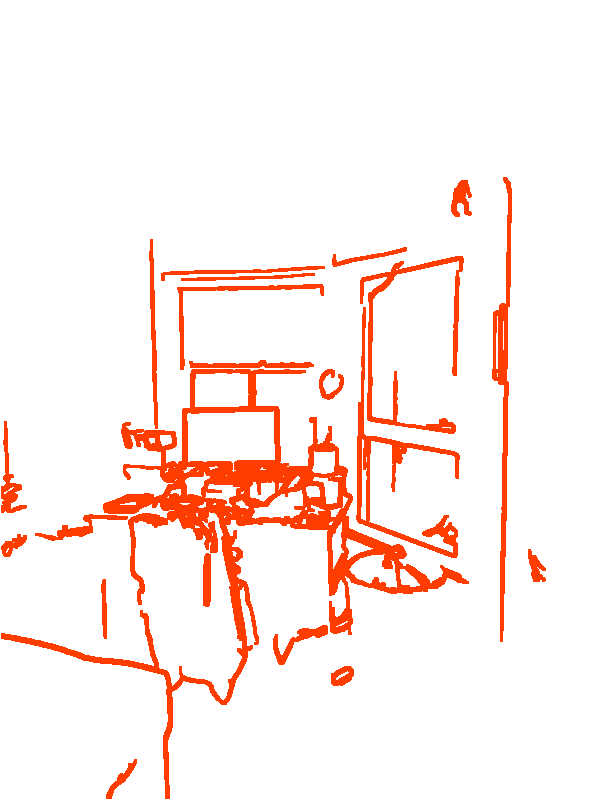
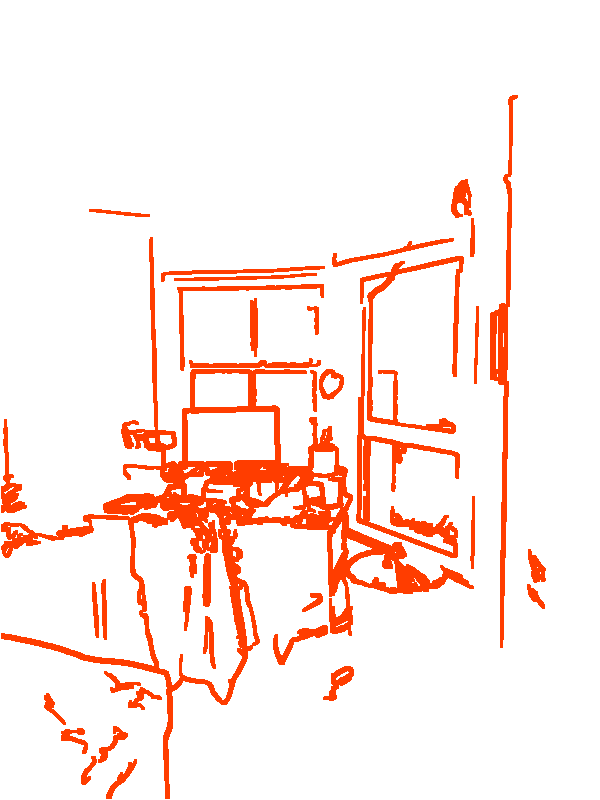
The stencil tool chooses its own speck limit and names a poor subject
What was hand work per photograph on the first hunt is now the tool's:
with --speck left out it raises the limit from 60 until most of what
survives is strokes at least three hundred pixels long rather than
specks, and prints what it chose. It does not climb the keep fraction to
make up for a sparse result, because more of a textured picture is more
texture, merged into blobs big enough to pass for strokes. Instead it
says when a photograph is mostly texture, too sparse, or too dark, so
those are taken again rather than tuned.

pipeline/sheet.py makes the contact sheet of a hunt's previews in one
command. Snowman House's seven stencils are re-cut by the unattended
tool, so what is deployed is what any future hunt gets. Tests for the
choice: clean outlines keep 60, a wicker-like texture raises it and is
reported, an explicit --speck is used as given, a dark photograph is
reported.

Claude-Session: https://claude.ai/code/session_0129ZGGXrko81CZoRzPKhrL1

diff --git a/pipeline/stencil.py b/pipeline/stencil.py
@@ -1,6 +1,7 @@
 #!/usr/bin/env python3
 """Cut a stencil from a photograph.
 
+    python3 pipeline/stencil.py photos/<slug>/*.jpg --out app/img/<slug>
     python3 pipeline/stencil.py photos/<slug>/*.jpg \\
         --keep 0.066 --speck 60 --long 800 --out app/img/<slug>
 
@@ -21,8 +22,13 @@ gravel, foliage) survives the threshold as scattered specks while an outline
 survives as one long piece. The lines are then thickened by one pixel to the
 two or three the scorer's masks expect. Strong outlines make the stencil,
 fine detail does not, and the preview written beside each PNG is where you
-find out: a stencil is good when a person could tell what it is. Too much
-texture: raise --speck first, then lower --keep, then ask for another photo.
+find out: a stencil is good when a person could tell what it is.
+
+Left to itself the tool chooses --speck per photograph: the limit rises
+until most of what survives is strokes rather than specks. It says what it
+chose, and it says when a photograph is mostly texture, too sparse, or too
+dark to be a good subject: those are the ones to take again. Give --speck
+to fix it by hand; --keep is 0.066 unless given.
 
 For each photograph this writes <id>-stencil.png and <id>-stencil-preview.jpg
 into --out and prints one JSON stencil entry to stdout, for pasting into the
@@ -125,12 +131,8 @@ def threshold(mag, w, h, keep):
     list of 0/1 the size of the frame. Strictly above, so a frame with no
     gradient at all keeps nothing rather than everything.
 
-    The quantile is taken over, and only ever set within, the pixels whose
-    Sobel saw a blurred neighbour on every side: two pixels in from the
-    edge. The blur is not computed on the one-pixel border, so the Sobel
-    one pixel in sees a black frame and reports a strong edge all the way
-    round the picture, blank or not. The player's frame has that ring too,
-    and a stencil that carried it would score a match on any view."""
+    The quantile is taken over, and only ever set within, the pixels two
+    in from the edge, where the Sobel had a full neighbourhood to read."""
     inner = [mag[y * w + x] for y in range(2, h - 2) for x in range(2, w - 2)]
     mask = [0] * (w * h)
     if not inner:
@@ -146,18 +148,19 @@ def threshold(mag, w, h, keep):
     return mask
 
 
-def drop_specks(mask, w, h, speck):
-    """Clear every 8-connected component of set pixels with fewer than
-    `speck` pixels, in place. A plain stack, not recursion: an outline is
-    one component thousands of pixels long and would blow the stack."""
+def components(mask, w, h):
+    """The 8-connected components of the set pixels, each a list of pixel
+    indices, largest first. A plain stack, not recursion: an outline is one
+    component thousands of pixels long and would blow the stack. The mask
+    is left as it was."""
     n = w * h
-    # 1 is set and not yet visited, 2 is set and visited, so the visit needs
-    # no second list the size of the frame.
+    seen = bytearray(n)
+    out = []
     for start in range(n):
-        if mask[start] != 1:
+        if not mask[start] or seen[start]:
             continue
         comp = [start]
-        mask[start] = 2
+        seen[start] = 1
         stack = [start]
         while stack:
             i = stack.pop()
@@ -170,16 +173,70 @@ def drop_specks(mask, w, h, speck):
                     if xx < 0 or xx >= w:
                         continue
                     j = yy * w + xx
-                    if mask[j] == 1:
-                        mask[j] = 2
+                    if mask[j] and not seen[j]:
+                        seen[j] = 1
                         stack.append(j)
                         comp.append(j)
-        if len(comp) < speck:
-            for i in comp:
-                mask[i] = 0
-    for i in range(n):
-        if mask[i]:
+        out.append(comp)
+    out.sort(key=len, reverse=True)
+    return out
+
+
+def from_components(comps, w, h):
+    mask = [0] * (w * h)
+    for comp in comps:
+        for i in comp:
             mask[i] = 1
+    return mask
+
+
+def drop_specks(mask, w, h, speck):
+    """Clear every 8-connected component of set pixels with fewer than
+    `speck` pixels, in place."""
+    kept = [c for c in components(mask, w, h) if len(c) >= speck]
+    mask[:] = from_components(kept, w, h)
+
+
+# Choosing the speck limit by looking, the way the handoff has the owner do
+# it, but done by the tool: raise the limit until most of what survives is
+# strokes rather than specks. The numbers came from the first hunt: a door
+# or a piano is a few components thousands of pixels long, a wicker basket
+# or a cluttered cellar is hundreds under a hundred and fifty. The keep
+# fraction is not climbed to make up for a sparse result: more of a textured
+# picture is more texture, merged into blobs big enough to pass for strokes,
+# and a plain subject already has its strong edges at 0.066. A sparse or a
+# textured result is reported instead, because the answer is another
+# photograph.
+SPECKS = [60, 80, 100, 130, 160, 200, 250, 300]
+STROKE_PX = 300          # a component at least this long is a stroke, not a speck
+STROKE_SHARE = 0.6       # the share of kept pixels that should be in strokes
+SPARSE = 0.035           # under this set fraction the scorer has little to hold
+DIM = 60                 # mean brightness, of 255, under which a room is dark
+
+
+def choose(mag, w, h, keep, speck):
+    """The mask, the speck used, and any notes about the photograph. A speck
+    given as None is chosen here; keep is as given."""
+    interior = max(1, (w - 4) * (h - 4))
+    specks = [speck] if speck is not None else SPECKS
+    comps = components(threshold(mag, w, h, keep), w, h)
+    notes = []
+    result = None
+    for sp in specks:
+        kept = [c for c in comps if len(c) >= sp]
+        total = sum(len(c) for c in kept)
+        share = (sum(len(c) for c in kept if len(c) >= STROKE_PX) / total) if total else 0.0
+        result = (sp, kept, total / interior, share)
+        if share >= STROKE_SHARE:
+            break
+    sp, kept, frac, share = result
+    if share < STROKE_SHARE and speck is None:
+        notes.append(f"mostly texture even at speck {sp} ({share:.0%} of its lines are strokes); "
+                     "consider another photograph")
+    elif frac < SPARSE:
+        notes.append(f"sparse: {frac:.1%} of the frame before thickening; "
+                     "a subject with bigger, plainer edges would give the camera more to hold")
+    return from_components(kept, w, h), sp, notes
 
 
 def src_for(out, png):
@@ -211,11 +268,15 @@ def make(photo, out, keep, speck, long):
     im = fit_long(im, long)
     w, h = im.size
 
-    mag = edge_map(pixels(im), w, h)
-    mask = threshold(mag, w, h, keep)
-    drop_specks(mask, w, h, speck)
+    px = pixels(im)
+    mag = edge_map(px, w, h)
+    mask, speck, notes = choose(mag, w, h, keep, speck)
     if not any(mask):
         print(f"{photo}: no edges found, the stencil is empty", file=sys.stderr)
+    # A dark room is noise to the camera whatever the stencil says.
+    mean = sum(0.299 * r + 0.587 * g + 0.114 * b for r, g, b in px) / len(px)
+    if mean < DIM:
+        notes.append(f"dim (mean brightness {mean:.0f} of 255); the camera will see noise in a dark room")
 
     # Thicken by one pixel. MaxFilter on a 0/255 image gives back only 0
     # and 255, so the alpha it becomes is a clean mask with no half-values
@@ -238,7 +299,9 @@ def make(photo, out, keep, speck, long):
     # The set fraction after thickening, at a glance: a stencil that is
     # mostly texture is a big number before it is a bad picture.
     filled = lines.histogram()[255] / (w * h)
-    print(f"wrote {png} {w}x{h}, {filled:.1%} set", file=sys.stderr)
+    print(f"wrote {png} {w}x{h}, {filled:.1%} set (keep {keep:g}, speck {speck})", file=sys.stderr)
+    for note in notes:
+        print(f"note: {photo}: {note}", file=sys.stderr)
 
     preview = im.convert("RGBA")
     preview.alpha_composite(stencil)
@@ -254,12 +317,13 @@ def main(argv=None):
         description="Cut stencils from photographs for a treasure hunt.")
     ap.add_argument("photos", nargs="+", type=Path, help="the photographs")
     # 0.066 rather than the handoff's 0.06: a tenth more of the scene's edges,
-    # after the first hunt showed the stencils needed more of their surroundings
-    # to say where to stand.
+    # after the first hunt showed the stencils needed more of their
+    # surroundings to say where to stand. The speck limit, left out, is chosen
+    # per photograph (see choose): from 60 up until the lines are strokes.
     ap.add_argument("--keep", type=float, default=0.066,
                     help="fraction of the frame's interior to keep (default 0.066)")
-    ap.add_argument("--speck", type=int, default=60,
-                    help="drop blobs with fewer pixels than this (default 60)")
+    ap.add_argument("--speck", type=int, default=None,
+                    help="drop blobs with fewer pixels than this (chosen per photo, from 60 up, if left out)")
     ap.add_argument("--long", type=int, default=800,
                     help="resize so the long side is this many px (default 800)")
     ap.add_argument("--out", type=Path, required=True,
@@ -267,7 +331,7 @@ def main(argv=None):
     args = ap.parse_args(argv)
     if not 0 < args.keep <= 1:
         ap.error("--keep must be above 0 and at most 1")
-    if args.speck < 0:
+    if args.speck is not None and args.speck < 0:
         ap.error("--speck must not be negative")
     if args.long < 5:
         ap.error("--long must be at least 5, so the frame has an interior")

diff --git a/tests/test_stencil.py b/tests/test_stencil.py
@@ -160,3 +160,76 @@ class IdTest(unittest.TestCase):
 
 if __name__ == "__main__":
     unittest.main()
+
+
+class ChoiceTest(unittest.TestCase):
+    """The speck limit chosen per photograph when --speck is left out."""
+
+    def setUp(self):
+        self.tmp = tempfile.TemporaryDirectory()
+        self.out = Path(self.tmp.name) / "out"
+        self.photos = Path(self.tmp.name) / "photos"
+        self.photos.mkdir()
+
+    def tearDown(self):
+        self.tmp.cleanup()
+
+    def shapes(self):
+        """A door-like drawing: a few long outlines on a plain ground."""
+        im = Image.new("RGB", (300, 400), (200, 196, 188))
+        d = ImageDraw.Draw(im)
+        d.rectangle([60, 40, 240, 380], outline=(40, 30, 30), width=5)
+        d.rectangle([90, 80, 210, 200], outline=(40, 30, 30), width=4)
+        d.rectangle([90, 230, 210, 350], outline=(40, 30, 30), width=4)
+        d.ellipse([215, 200, 235, 220], fill=(40, 30, 30))
+        p = self.photos / "shapes.jpg"
+        im.save(p, quality=92)
+        return p
+
+    def texture(self):
+        """Wicker, more or less: a dense grid of small dark blobs and
+        nothing else, which is specks all the way down."""
+        import random
+        rnd = random.Random(7)
+        im = Image.new("RGB", (300, 400), (190, 160, 110))
+        d = ImageDraw.Draw(im)
+        for y in range(10, 390, 9):
+            for x in range(10, 290, 9):
+                if rnd.random() < 0.85:
+                    d.ellipse([x, y, x + 4, y + 3], fill=(90, 60, 30))
+        p = self.photos / "wicker.jpg"
+        im.save(p, quality=92)
+        return p
+
+    def chosen(self, proc):
+        m = [line for line in proc.stderr.splitlines() if line.startswith("wrote") and "speck" in line]
+        self.assertEqual(len(m), 1, proc.stderr)
+        return int(m[0].rsplit("speck ", 1)[1].rstrip(")"))
+
+    def test_clean_outlines_keep_the_default_limit(self):
+        proc = run(self.shapes(), "--out", self.out)
+        self.assertEqual(proc.returncode, 0, proc.stderr)
+        self.assertEqual(self.chosen(proc), 60)
+        self.assertNotIn("note:", proc.stderr)
+
+    def test_texture_raises_the_limit_and_is_reported(self):
+        proc = run(self.texture(), "--out", self.out)
+        self.assertEqual(proc.returncode, 0, proc.stderr)
+        self.assertGreater(self.chosen(proc), 60)
+        self.assertIn("note:", proc.stderr)
+        self.assertTrue("texture" in proc.stderr or "sparse" in proc.stderr, proc.stderr)
+
+    def test_an_explicit_speck_is_used_as_given(self):
+        proc = run(self.texture(), "--speck", "75", "--out", self.out)
+        self.assertEqual(proc.returncode, 0, proc.stderr)
+        self.assertEqual(self.chosen(proc), 75)
+        self.assertNotIn("mostly texture", proc.stderr)
+
+    def test_a_dark_photograph_is_reported(self):
+        im = Image.new("RGB", (300, 400), (20, 18, 16))
+        ImageDraw.Draw(im).rectangle([60, 40, 240, 380], outline=(70, 60, 55), width=5)
+        p = self.photos / "dark.jpg"
+        im.save(p, quality=92)
+        proc = run(p, "--out", self.out)
+        self.assertEqual(proc.returncode, 0, proc.stderr)
+        self.assertIn("dim", proc.stderr)

diff --git a/pipeline/sheet.py b/pipeline/sheet.py
@@ -1,0 +1,67 @@
+#!/usr/bin/env python3
+"""A contact sheet of a hunt's stencils over their photographs.
+
+    python3 pipeline/sheet.py content/<slug>.json out.jpg
+
+One tile per stencil in the hunt's order, each the preview stencil.py wrote
+beside the PNG (app/img/<slug>/<id>-stencil-preview.jpg), labelled with the
+id, three to a row. For looking at, and for the report of a new hunt; the
+previews are not committed, so run stencil.py first. Needs Pillow, like
+stencil.py; not part of the build.
+"""
+
+import json
+import sys
+from pathlib import Path
+
+from PIL import Image, ImageDraw
+
+BASE = Path(__file__).resolve().parent.parent
+APP = BASE / "app"
+
+TILE = (390, 520)
+GAP = 12
+LABEL = 26
+PAPER = (236, 235, 231)
+INK = (25, 27, 28)
+
+
+def main(argv=None):
+    argv = sys.argv[1:] if argv is None else argv
+    if len(argv) != 2:
+        print(__doc__.strip().splitlines()[2].strip(), file=sys.stderr)
+        return 2
+    hunt = json.loads(Path(argv[0]).read_text(encoding="utf-8"))
+    out = Path(argv[1])
+    stencils = hunt.get("stencils") or []
+    if not stencils:
+        print("sheet: the hunt has no stencils", file=sys.stderr)
+        return 1
+    cols = min(3, len(stencils))
+    rows = (len(stencils) + cols - 1) // cols
+    w, h = TILE
+    sheet = Image.new("RGB", (cols * (w + GAP) + GAP, rows * (h + GAP + LABEL) + GAP), PAPER)
+    draw = ImageDraw.Draw(sheet)
+    for n, s in enumerate(stencils):
+        src = Path(s["src"])
+        preview = APP / src.parent / (src.name.replace("-stencil.png", "-stencil-preview.jpg"))
+        x = GAP + (n % cols) * (w + GAP)
+        y = GAP + (n // cols) * (h + GAP + LABEL)
+        if preview.is_file():
+            with Image.open(preview) as im:
+                im = im.convert("RGB")
+                im.thumbnail(TILE)
+                sheet.paste(im, (x + (w - im.width) // 2, y + (h - im.height) // 2))
+        else:
+            draw.rectangle([x, y, x + w, y + h], outline=INK)
+            draw.text((x + 8, y + 8), "no preview: run stencil.py", fill=INK)
+            print(f"sheet: no preview at {preview}", file=sys.stderr)
+        draw.text((x + 2, y + h + 6), s["id"], fill=INK)
+    out.parent.mkdir(parents=True, exist_ok=True)
+    sheet.save(out, quality=86)
+    print(f"wrote {out} with {len(stencils)} stencils", file=sys.stderr)
+    return 0
+
+
+if __name__ == "__main__":
+    sys.exit(main())

diff --git a/README.md b/README.md
@@ -62,12 +62,19 @@ the Supabase connector:
 Download each `path` from the bucket's public URL to `photos/<slug>/<id>.jpg`,
 take the clue and, where the accuracy is at most 75 m, the position. Then:
 
-    python3 pipeline/stencil.py photos/<slug>/*.jpg --keep 0.066 --speck 60 --long 800 --out app/img/<slug>
+    python3 pipeline/stencil.py photos/<slug>/*.jpg --out app/img/<slug>
+    python3 pipeline/sheet.py content/<slug>.json sheet.jpg
 
-Look at every `*-stencil-preview.jpg`. A photo with too much texture
-(foliage, gravel, brick) gives a stencil that is noise: raise `--speck`,
-lower `--keep`, or take another photo. A stencil is good when a person could
-tell what it is. Write `content/<slug>.json`:
+Left to itself the tool keeps 0.066 of each frame's edges and chooses the
+speck limit per photograph, raising it until most of what survives is
+strokes rather than specks, and says what it chose. It also says when a
+photograph is a poor subject: `mostly texture` (wicker, gravel, foliage),
+`sparse` (too few edges to hold), or `dim` (a dark room is noise to the
+camera). Those are the ones to take again, with a subject that has big
+permanent edges two to four metres away in decent light, and nothing that
+moves. `--keep` and `--speck` still fix the recipe by hand. Look at every
+`*-stencil-preview.jpg`, or at the sheet: a stencil is good when a person
+could tell what it is. Write `content/<slug>.json`:
 
     {
       "id": "trafalgar",
